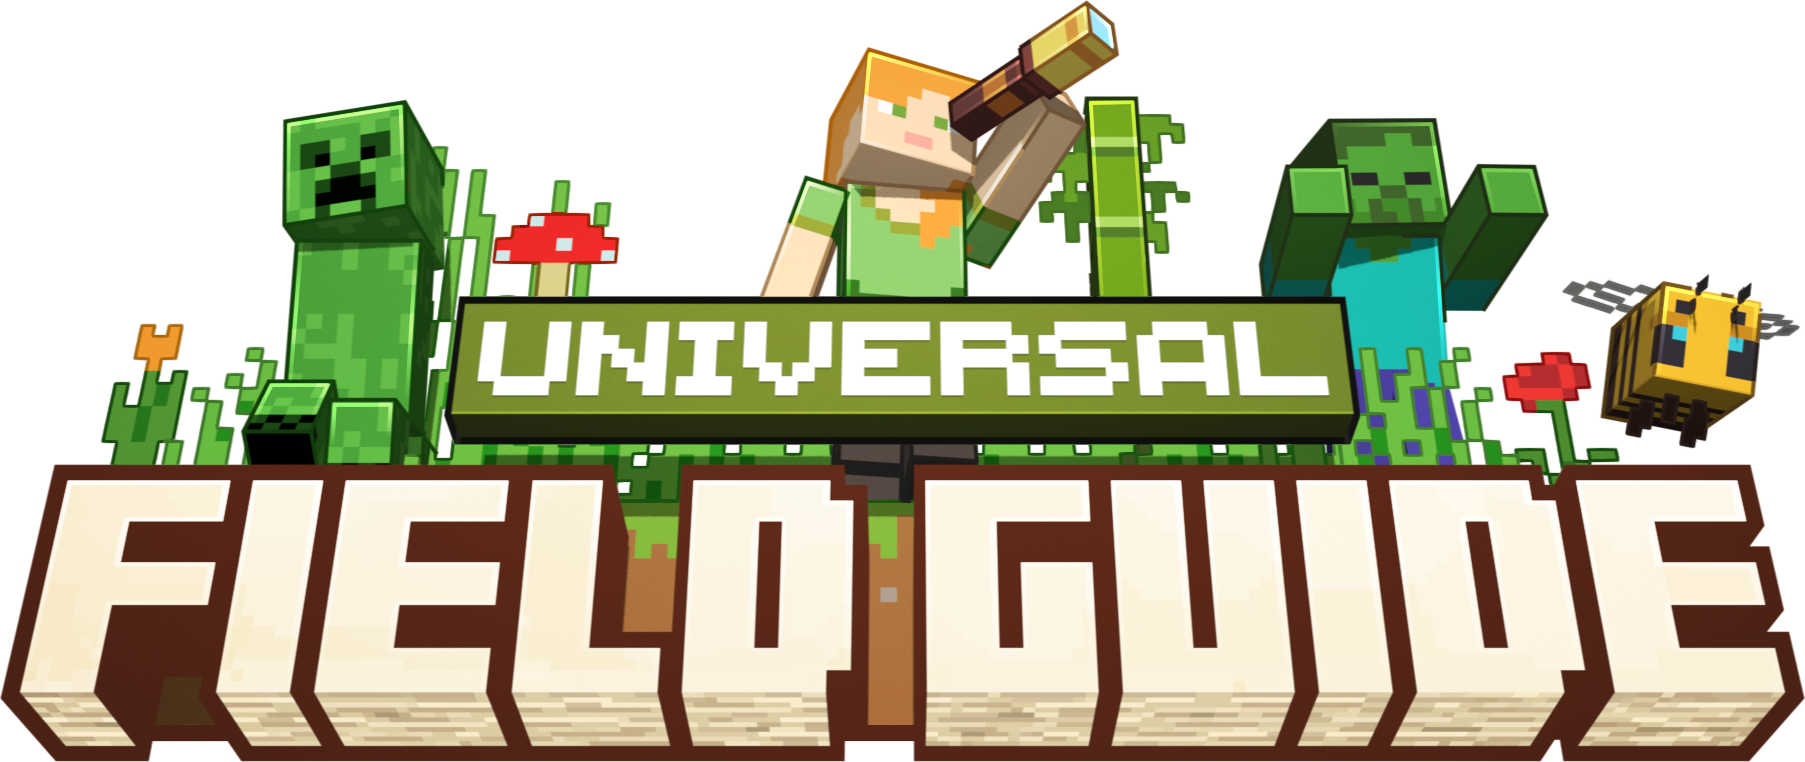
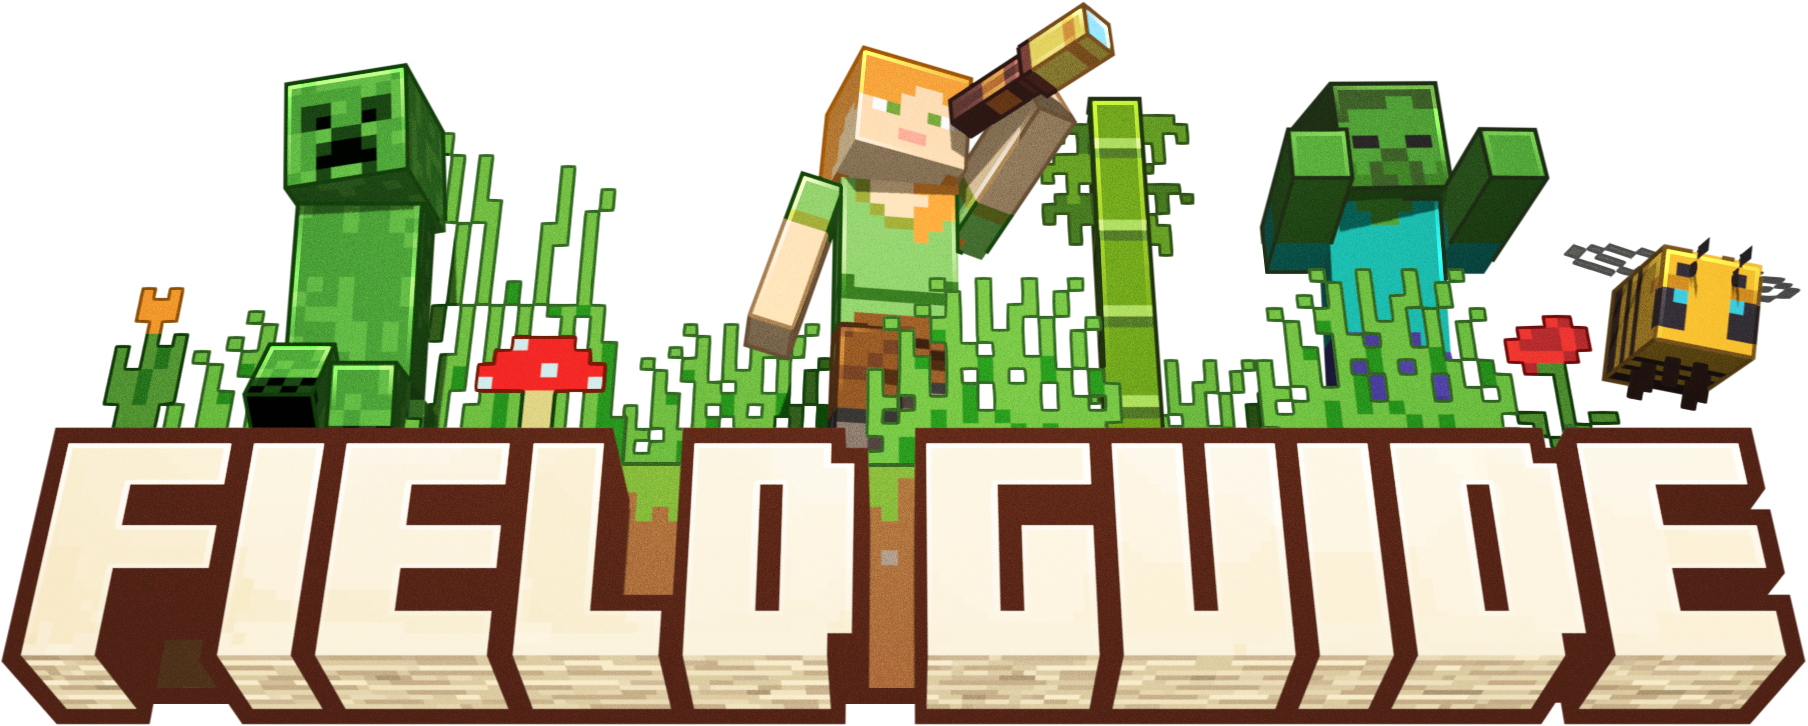
updated readme

diff --git a/README.md b/README.md
@@ -2,35 +2,49 @@
   <img src="images/banner_image.png" width="800">
 </p>
 
-**Universal Field Guide** is an exploration-focused mod that lets you scan monsters, animals and plants to unlock entries in your own in-game Field Guide!
-
 <div align="center">
 <a href='https://files.minecraftforge.net'><img alt="forge" height="56" src="https://cdn.jsdelivr.net/npm/@intergrav/devins-badges@3/assets/cozy/supported/forge_vector.svg"></a>
 <a href='https://fabricmc.net'><img alt="fabric" height="56" src="https://cdn.jsdelivr.net/npm/@intergrav/devins-badges@3/assets/cozy/supported/fabric_vector.svg"></a>
 <a href='https://neoforged.net/'><img alt="neoforge" height="56" src="https://cdn.jsdelivr.net/npm/@intergrav/devins-badges@3/assets/cozy/supported/neoforge_vector.svg"></a>
 </div>
 
-Ever wondered what makes a Creeper tick? Or what that weird glowing block deep in the caves is? Grab your spyglass,
-adventurer: it's time to start taking notes!
+_Ever wondered what makes a Creeper tick? Or what that weird glowing block deep in the caves is? Grab your spyglass,
+adventurer: it's time to start taking notes!_
 
-By looking at mobs and plants through your trusty Spyglass, you can scan them to unlock entries in your own personal
-Field Guide.
+**Field Guide** is an exploration-focused mod that lets you scan and discover monsters, animals and plants with your trusty spyglass to unlock them in your own in-game Field Guide!
+  
 
-![Scanning a Mob in action](images/scanning.gif)
+![List view](images/list_view.png)
 
 ---
 
 ## Features
+![Scanning in action](images/scanning_view.png)
 
 * **Finally, Spyglasses have a use**! Scan plants and critters at a distance using a spyglass.
 * **Your own personal encyclopedia!** Every successful scan unlocks a brand-new entry in your Field Guide.
 * **Reward your curiosity!** Gives true explorers a reason to seek out every rare creature and biome.
 * **Gotta scan 'em all!** Works seamlessly with almost _every_ modded entity, no configuration necessary!
 * **Multiplayer-friendly!** Your progress is saved on a per-server basis. Build your Field Guide with friends!
+* **Take notes!** Write your own notes for each entry, or add [Item Descriptions](https://modrinth.com/mod/item-descriptions) to prefill them with useful information!
 
-![Field Guide UI Screenshot](images/entry_page.png)
+![Details view](images/details_view.png)
 
 ---
+
+## Easily Configurable. Made for modpacks!
+Whether you are using it for your personal game or designing a modpack, Field Guide can be configured how you want it!
+
+* Categories and their contents are fully controlled by datapacks, and can contain any entity, block or even multiblock structures like trees! 
+* Allow scanning without a spyglass or require players to defeat a monster to discover it.
+* Grant XP or run commands when a player makes a discovery.
+* Add your own descriptions to provide players with clues and lore.
+* Hide names, entries or whole categories until they are discovered.
+* And much more...
+
+For full information, tutorials, and examples, please refer to the **[Field Guide Wiki](https://moddedmc.wiki/en/project/field-guide/latest/docs/field-guide)**.
+
+![Modded setup](images/modded_view.png)
 
 ## Optional Integrations (Recommended)
 
@@ -42,16 +56,6 @@ mods:
 | <img src="images/immersive_overlays.jpg" width="64"> | **[Immersive Overlays](https://modrinth.com/mod/immersive-overlays)**      | **Biome Displays** — Shows beautiful spawn details for entities.     |
 | <img src="images/item_descriptions.jpg" width="64">  | **[Item Descriptions](https://modrinth.com/mod/item-descriptions)**        | **Entry Descriptions** — Automatically fills in entry lore.          |
 | <img src="images/mod_descriptions.jpg" width="64">   | **[Mod Descriptions](https://modrinth.com/resourcepack/mod-descriptions)** | **Modded Support** — Adds automatic descriptions for modded entries. |
-
----
-
-## Usage & Documentation
-
-For full information, tutorials, and examples, please refer to the wiki:
-
-**[Field Guide Wiki](https://moddedmc.wiki/en/project/field-guide/latest/docs/field-guide)**
-
-![Field Guide UI Screenshot](images/categories_page.png)
 
 ---
 
@@ -105,6 +109,8 @@ from [Nekomaster](https://www.curseforge.com/members/nekomaster1000).
 
 The book texture is modified from mortuusar's [Scholar](https://modrinth.com/mod/scholar), with permission, which also
 works well when used alongside Field Guide!
+
+The banner image uses textures from the [Bare Bones](https://modrinth.com/resourcepack/bare-bones) texture pack.
 
 ---
 
